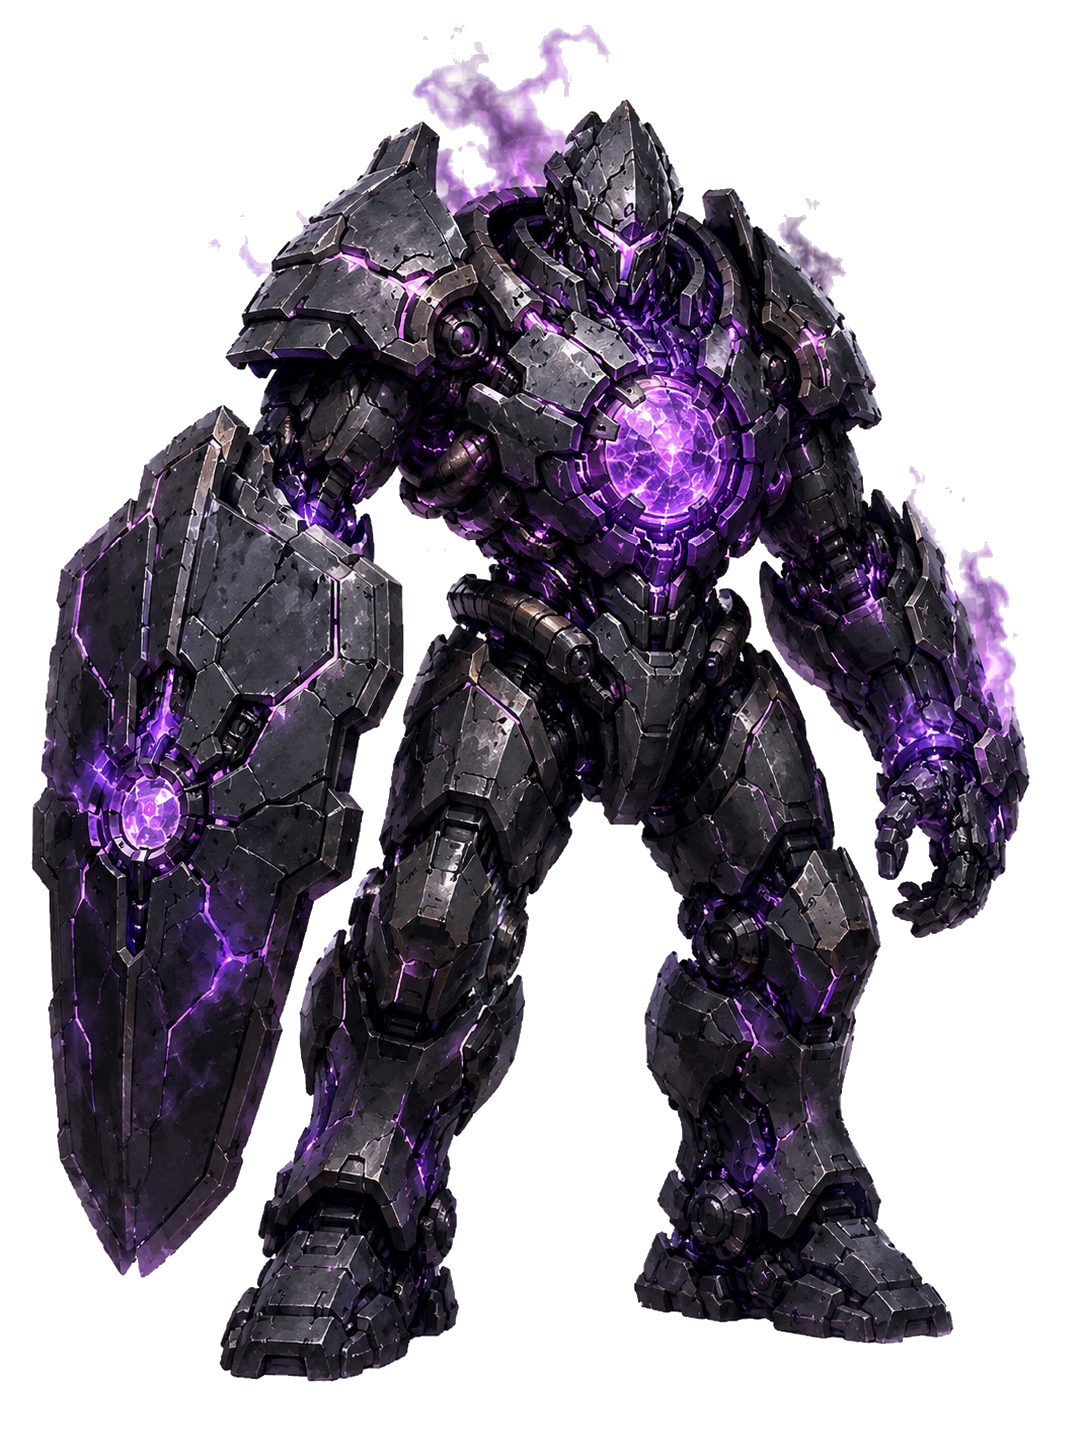
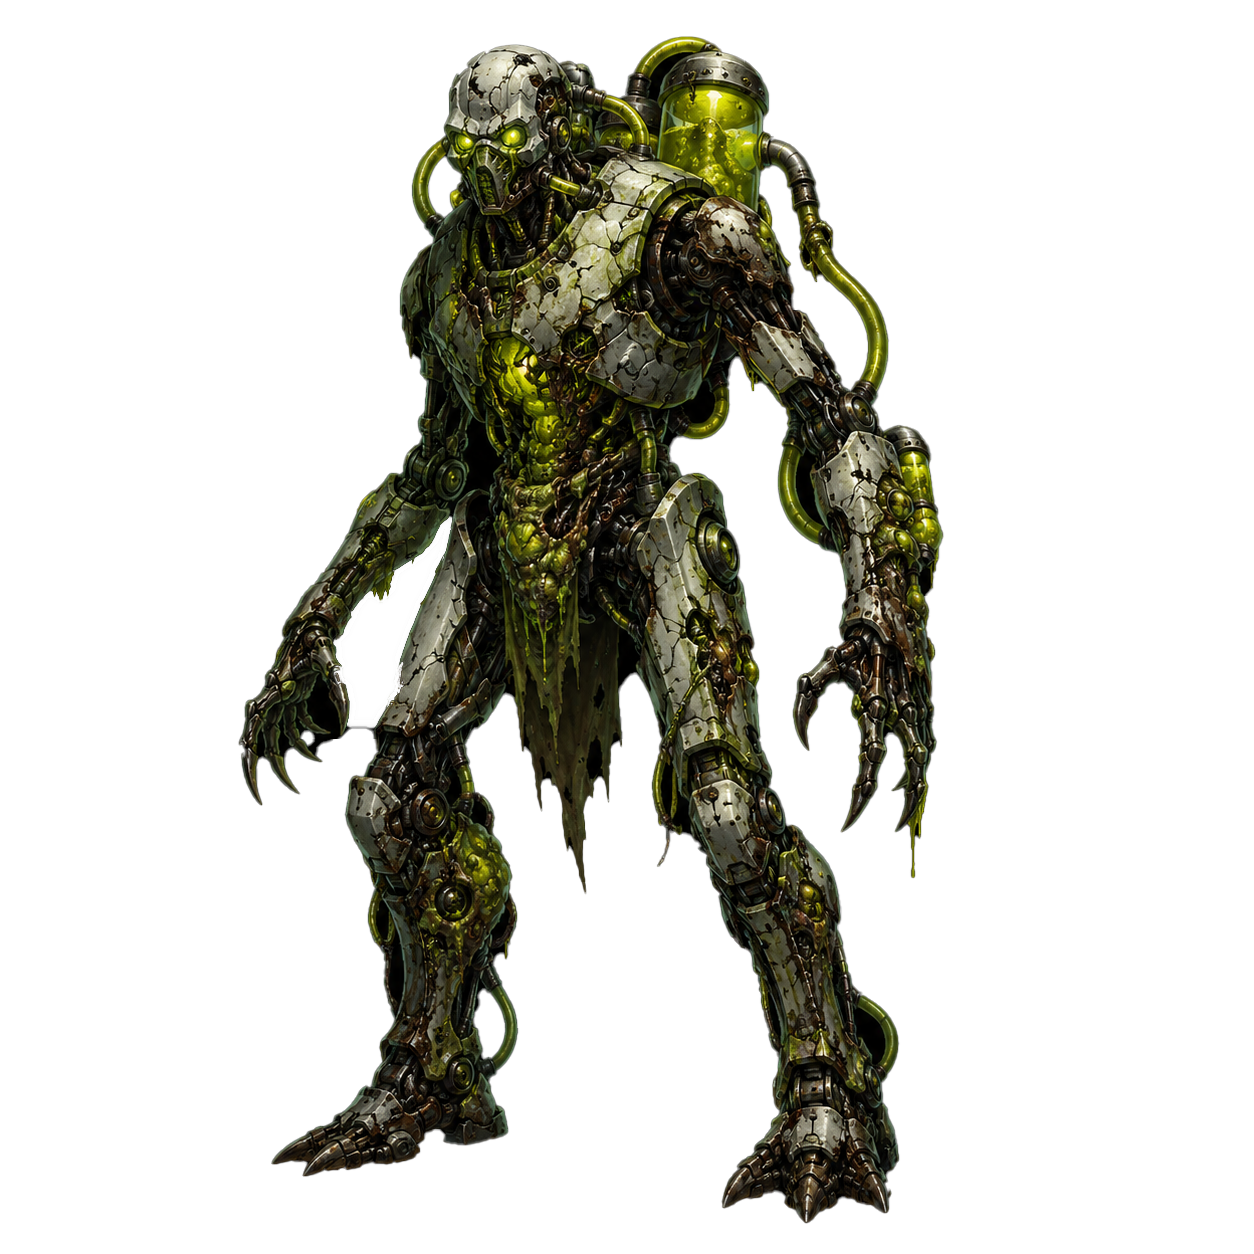
Add enemy assets and fix enemy image paths

diff --git a/js/Game.js b/js/Game.js
@@ -409,6 +409,16 @@ function drawContain(ctx, img, x, y, w, h) {
   ctx.drawImage(img, dx, dy, dw, dh);
   return { x: dx, y: dy, w: dw, h: dh };
 }
+function drawContainBottom(ctx, img, x, y, w, h) {
+  if (!img) return null;
+  const s = Math.min(w / img.naturalWidth, h / img.naturalHeight);
+  const dw = img.naturalWidth * s;
+  const dh = img.naturalHeight * s;
+  const dx = x + (w - dw) / 2;
+  const dy = y + h - dh;
+  ctx.drawImage(img, dx, dy, dw, dh);
+  return { x: dx, y: dy, w: dw, h: dh };
+}
 function drawFallbackBackground(ctx, label = 'CYBER GRID') {
   ctx.fillStyle = '#02060d';
   ctx.fillRect(0, 0, W, H);
@@ -2347,13 +2357,14 @@ export class Game {
     const xs = layouts[alive.length] || layouts[3];
     alive.forEach((e, i) => {
       const x = xs[i];
-      const spriteTop = i % 2 ? 300 : 318;
-      const spriteW = e.spriteW || (e.id === 'toxic_drone_hound' ? 205 : 190);
-      const spriteH = e.spriteH || (e.id === 'toxic_drone_hound' ? 245 : 260);
+      const spriteW = e.spriteW || (alive.length >= 3 ? 230 : 255);
+      const spriteH = e.spriteH || (alive.length >= 3 ? 275 : 300);
+      const spriteBottom = e.spriteBottom || (i % 2 ? 684 : 692);
+      const spriteTop = spriteBottom - spriteH;
       const img = this.assets.get(e.art);
-      const uiY = spriteTop - 136;
+      const uiY = spriteTop - 118;
       const targetW = spriteW + 34;
-      this.shadow(ctx, x, 696, 142, 30, e.color);
+      this.shadow(ctx, x, spriteBottom + 8, 142, 30, e.color);
       const enemyIndex = this.enemies.indexOf(e);
       this.buttons.push(new Button('enemyTarget', x - targetW / 2, spriteTop - 16, targetW, spriteH + 34, e.name, { index: enemyIndex }, e.color));
       if (enemyIndex === this.selectedTargetIndex) {
@@ -2383,10 +2394,10 @@ export class Game {
         ctx.save();
         ctx.shadowColor = e.color;
         ctx.shadowBlur = 14;
-        drawContain(ctx, img, x - spriteW / 2, spriteTop, spriteW, spriteH);
+        drawContainBottom(ctx, img, x - spriteW / 2, spriteTop, spriteW, spriteH);
         ctx.restore();
       } else {
-        this.fallbackUnit(ctx, x, 535, e.color, 'ENEMY');
+        this.fallbackUnit(ctx, x, spriteBottom - 150, e.color, 'ENEMY');
       }
     });
   }

diff --git a/js/AssetLoader.js b/js/AssetLoader.js
@@ -80,17 +80,17 @@ export const ASSET_MANIFEST = {
   char_euclid_vector: './assets/characters/euclid_vector.png',
   char_brawler_warrior: './assets/characters/brawler_warrior.png',
 
-  enemy_toxic_drone_hound: './assets/enemies/toxic_drone_hound.png',
-  enemy_neon_cultist: './assets/enemies/neon_cultist.png',
+  enemy_toxic_drone_hound: './assets/enemies/Toxic Drone Hound.png',
+  enemy_neon_cultist: './assets/enemies/Neon Cultist.png',
   enemy_glitch_raven: './assets/enemies/glitch_raven.png',
   enemy_scrap_reaper: './assets/enemies/scrap_reaper.png',
   enemy_corrupted_sentinel: './assets/enemies/corrupted_sentinel.png',
-  enemy_scrap_mech_gunner: './assets/enemies/scrap_mech_gunner.png',
-  enemy_frostbyte_wraith: './assets/enemies/frostbyte_wraith.png',
-  enemy_volt_spider_bot: './assets/enemies/volt_spider_bot.png',
-  enemy_blacknet_assassin: './assets/enemies/blacknet_assassin.png',
-  enemy_plague_android: './assets/enemies/plague_android.png',
-  enemy_shield_core_guardian: './assets/enemies/shield_core_guardian.png',
+  enemy_scrap_mech_gunner: './assets/enemies/Scrap Mech Gunner.png',
+  enemy_frostbyte_wraith: './assets/enemies/Frostbyte Wraith.png',
+  enemy_volt_spider_bot: './assets/enemies/Volt Spider Bot.png',
+  enemy_blacknet_assassin: './assets/enemies/Blacknet Assassin.png',
+  enemy_plague_android: './assets/enemies/Plague Android.png',
+  enemy_shield_core_guardian: './assets/enemies/Shield Core Guardian.png',
   enemy_data_vault_overseer: './assets/enemies/data_vault_overseer.png',
 
   relic_emergency_patch: './assets/relics/emergency_patch.png',